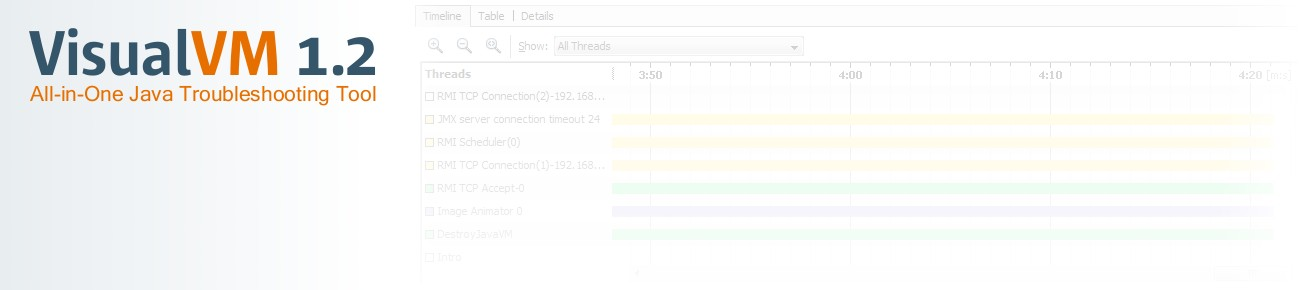
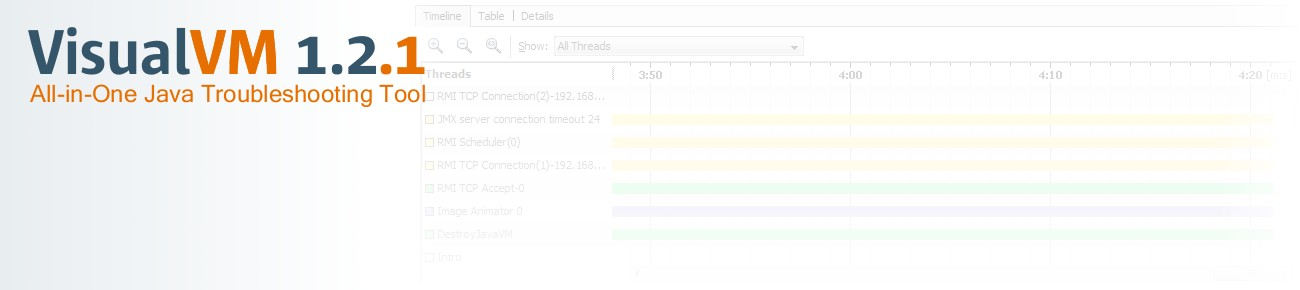
Releasing VisualVM 1.2.1
git-svn-id: https://svn.java.net/svn/visualvm~svn/trunk@2323 ba0df5e5-9053-6d9f-941f-f112716aa91a

Changed region(s): [[0.0, 0.0931, 0.3385, 0.3724]]

diff --git a/www/relnotes12.html b/www/relnotes12.html
@@ -1,7 +1,7 @@
 <html>
 <head>
     
-    <title>VisualVM 1.2.1 Release Notes</title>
+    <title>VisualVM 1.2 Release Notes</title>
     
     <style>            
             
@@ -42,14 +42,14 @@
     <div id="contents_contents">
         <div id="contents_main">
             
-            <h1>VisualVM 1.2.1 Release Notes</h1>
+            <h1>VisualVM 1.2 Release Notes</h1>
             
             <p>
                 VisualVM is a visual tool integrating several commandline JDK tools and lightweight profiling capabilities. Designed for both production and development time use, it further enhances the capability of monitoring and performance analysis for the Java SE platform.
             </p>
             
             <p style="margin-bottom: 15px;">
-                VisualVM 1.2.1 is a bugfix release based on VisualVM 1.2. See the <a href="#changes">Changes In 1.2.1</a> section for list of changes and bugfixes since the VisualVM 1.2.
+                VisualVM 1.2 is a stable release following after VisualVM 1.1.1. See the <a href="#changes">Changes In 1.2</a> section for list of changes and bugfixes since the VisualVM 1.1.1.
                 See the <a href="releases.html">Releases Overview</a> page for detailed overview of all VisualVM and Java VisualVM releases.
             </p>
             
@@ -98,60 +98,8 @@
             </div>
             
             <a name="changes"></a>
-            <h3>Changes In 1.2.1</h3>
-            <div>                
-                <p style="margin-top: 5px; margin-bottom: 10px;">
-                    <b>Fixed bugs:</b><br>
-                    <ul>
-                        <li><a href="https://visualvm.dev.java.net/issues/show_bug.cgi?id=333">Issue 333</a>: HeapWalker in VisualVM doesn't work with JDK 6 Update 17+
-                        </li>
-
-                        <li><a href="https://visualvm.dev.java.net/issues/show_bug.cgi?id=327">Issue 327</a>: Maximum value in Monitor charts is Integer.MAX_VALUE
-                        </li>
-
-                        <li><a href="https://visualvm.dev.java.net/issues/show_bug.cgi?id=332">Issue 332</a>: NPE in VisualVM-Sampler
-                        </li>
-                    </ul>
-                </p>
-            </div>
-            
-            <a name="known_problems"></a>
-            <h3>Known Problems</h3>
-            <div>                
-                <ul>
-                    <li><a href="https://visualvm.dev.java.net/issues/show_bug.cgi?id=224">Issue 224</a>: Cannot memory profile JBoss AS 4.2.3.GA
-                    </li>
-
-                    <li><a href="https://visualvm.dev.java.net/issues/show_bug.cgi?id=148">Issue 148</a>: VisualVM hangs when lost remote connection
-                    </li>
-
-                    <li><a href="https://visualvm.dev.java.net/issues/show_bug.cgi?id=120">Issue 120</a>: JMX application datasource cannot be reused on application restart
-                    </li>
-                    
-                    <li><a href="https://visualvm.dev.java.net/issues/show_bug.cgi?id=72">Issue 72</a>: Running application sometimes not recognized
-                    </li>
-                </ul>
-
-                <p>
-                    <b>Warning:</b> due to a JDK bug taking heap dump may crash the target JVM if it's running JDK 6 Update 16+ using Concurrent Mark Sweep garbage collector (CMS). A workaround is to use a different GC (for example using <code>-XX:+UseParallelGC</code>). Similar problem seems to affect also the JDK 7 devbuilds.
-                </p>
-                
-                <p style="margin-bottom: 15px;">To view all known problems please use this <a href="https://visualvm.dev.java.net/issues/buglist.cgi?Submit+query=Submit+query&issue_type=DEFECT&component=visualvm&subcomponent=code&issue_status=NEW&issue_status=STARTED&issue_status=REOPENED&email1=&emailtype1=exact&emailassigned_to1=1&email2=&emailtype2=exact&emailreporter2=1&issueidtype=include&issue_id=&changedin=&votes=&chfieldfrom=&chfieldto=Now&chfieldvalue=&short_desc=&short_desc_type=fulltext&long_desc=&long_desc_type=fulltext&issue_file_loc=&issue_file_loc_type=fulltext&status_whiteboard=&status_whiteboard_type=fulltext&field0-0-0=noop&type0-0-0=noop&value0-0-0=&cmdtype=doit&newqueryname=&order=Reuse+same+sort+as+last+time">IssueTracker query</a>.
-                </p>
-            </div>
-
-            <br>
-            <hr>
-            <hr>
-            <br>
-            <br>
-
-            <a name="changeshistory"></a>
-            <h2>History of Changes</h2>
-            <br>
-
             <h3>Changes In 1.2</h3>
-            <div>
+            <div>                
                 <p style="margin-top: 5px;">
                     <b>Features and enhancements:</b><br>
                     <ul>
@@ -256,14 +204,55 @@
 
                         <li>Compatible: <code>com.sun.tools.visualvm.tools.jvmstat.JvmstatModel.getConnectionId()</code> added
                         </li>
-
+                        
                     </ul>
                 </p>
-
+                
                 <p style="margin-bottom: 10px;">
                     <b>Fixed bugs:</b> <a href="https://visualvm.dev.java.net/issues/buglist.cgi?Submit+query=Submit+query&issue_type=DEFECT&component=visualvm&resolution=FIXED&target_milestone=1.2&email1=&emailtype1=exact&emailassigned_to1=1&email2=&emailtype2=exact&emailreporter2=1&issueidtype=include&issue_id=&changedin=&votes=&chfield=creation_ts&chfieldfrom=&chfieldto=Now&chfieldvalue=&short_desc=&short_desc_type=fulltext&long_desc=&long_desc_type=fulltext&issue_file_loc=&issue_file_loc_type=fulltext&status_whiteboard=&status_whiteboard_type=fulltext&field0-0-0=noop&type0-0-0=noop&value0-0-0=&cmdtype=doit&order=Reuse+same+sort+as+last+time">IssueTracker query</a>.
                 </p>
             </div>
+            
+            <a name="known_problems"></a>
+            <h3>Known Problems</h3>
+            <div>                
+                <ul>
+                    <li><a href="https://visualvm.dev.java.net/issues/show_bug.cgi?id=333">Issue 333</a>: HeapWalker in VisualVM doesn't work with JDK 6 Update 17+
+                    </li>
+
+                    <li><a href="https://visualvm.dev.java.net/issues/show_bug.cgi?id=224">Issue 224</a>: Cannot memory profile JBoss AS 4.2.3.GA
+                    </li>
+
+                    <li><a href="https://visualvm.dev.java.net/issues/show_bug.cgi?id=148">Issue 148</a>: VisualVM hangs when lost remote connection
+                    </li>
+
+                    <li><a href="https://visualvm.dev.java.net/issues/show_bug.cgi?id=327">Issue 327</a>: Maximum value in Monitor charts is Integer.MAX_VALUE (hotfix <a href="https://visualvm.dev.java.net/issues/show_bug.cgi?id=327">available</a>)
+                    </li>
+
+                    <li><a href="https://visualvm.dev.java.net/issues/show_bug.cgi?id=120">Issue 120</a>: JMX application datasource cannot be reused on application restart
+                    </li>
+                    
+                    <li><a href="https://visualvm.dev.java.net/issues/show_bug.cgi?id=72">Issue 72</a>: Running application sometimes not recognized
+                    </li>
+                </ul>
+
+                <p>
+                    <b>Warning:</b> due to a JDK bug taking heap dump may crash the target JVM if it's running JDK 6 Update 16+ using Concurrent Mark Sweep garbage collector (CMS). A workaround is to use a different GC (for example using <code>-XX:+UseParallelGC</code>). Similar problem seems to affect also the JDK 7 devbuilds.
+                </p>
+                
+                <p style="margin-bottom: 15px;">To view all known problems please use this <a href="https://visualvm.dev.java.net/issues/buglist.cgi?Submit+query=Submit+query&issue_type=DEFECT&component=visualvm&subcomponent=code&issue_status=NEW&issue_status=STARTED&issue_status=REOPENED&email1=&emailtype1=exact&emailassigned_to1=1&email2=&emailtype2=exact&emailreporter2=1&issueidtype=include&issue_id=&changedin=&votes=&chfieldfrom=&chfieldto=Now&chfieldvalue=&short_desc=&short_desc_type=fulltext&long_desc=&long_desc_type=fulltext&issue_file_loc=&issue_file_loc_type=fulltext&status_whiteboard=&status_whiteboard_type=fulltext&field0-0-0=noop&type0-0-0=noop&value0-0-0=&cmdtype=doit&newqueryname=&order=Reuse+same+sort+as+last+time">IssueTracker query</a>.
+                </p>
+            </div>
+
+            <br>
+            <hr>
+            <hr>
+            <br>
+            <br>
+
+            <a name="changeshistory"></a>
+            <h2>History of Changes</h2>
+            <br>
 
             <h3>Changes In 1.1.1</h3>
             <div>
@@ -394,7 +383,7 @@
         <h3 class="first">On This Page</h3>
         <div>
             <a href="#system_requirements">System Requirements</a>
-            <a href="#changes">Changes In 1.2.1</a>
+            <a href="#changes">Changes In 1.2</a>
             <a href="#known_problems">Known Problems</a>
             <a href="#changeshistory">History of Changes</a>
         </div>

diff --git a/www/index.html b/www/index.html
@@ -50,6 +50,11 @@
             <div id="news" style="margin-bottom: 10px;">
                 <!-- Please always display 3 items here. The item to be removed should be archived on news.html -->
 
+                <p><span class="news_date">November 9th, 2009:</span> VisualVM 1.2.1 released. This is purely a bugfix release, see the <a href="https://visualvm.dev.java.net/issues/buglist.cgi?Submit+query=Submit+query&component=visualvm&resolution=FIXED&target_milestone=1.2.1&email1=&emailtype1=exact&emailassigned_to1=1&email2=&emailtype2=exact&emailreporter2=1&issueidtype=include&issue_id=&changedin=&votes=&chfield=creation_ts&chfieldfrom=&chfieldto=Now&chfieldvalue=&short_desc=&short_desc_type=fulltext&long_desc=&long_desc_type=fulltext&issue_file_loc=&issue_file_loc_type=fulltext&status_whiteboard=&status_whiteboard_type=fulltext&field0-0-0=noop&type0-0-0=noop&value0-0-0=&cmdtype=doit&order=Reuse+same+sort+as+last+time">list of fixed bugs</a>.
+                    The tool can be downloaded from the <a href="download.html">Download</a> page, sources are available in
+                    <a href="https://visualvm.dev.java.net/source/browse/visualvm/visualvm/?only_with_tag=release121"><code>release121</code></a> branch.
+                </p>
+
                 <p><span class="news_date">October 21st, 2009:</span> VisualVM 1.2 released. It introduces many new features
                     incl. sampling profiler, redesigned charts, enhanced <code>jstatd</code> support and customizable proxy settings.
                     The tool can be downloaded from the <a href="download.html">Download</a> page, sources are available in
@@ -64,11 +69,6 @@
                     <a href="mailto:feedback@visualvm.dev.java.net?subject=VisualVM 1.2 Test Build Feedback">feedback@visualvm.dev.java.net</a>
                     or <a href="https://visualvm.dev.java.net/issues/enter_bug.cgi?issue_type=DEFECT">file a bug report</a> into
                     the Issue Tracker (dev.java.net login is required).
-                </p>
-
-                <p><span class="news_date">August 13th, 2009:</span> Java VisualVM Blogging Contest results have been
-                    announced at <a href="http://java.sun.com/community/javavisualvm">http://java.sun.com/community/javavisualvm</a>.
-                    Congratulations to the winners and thanks to all participants!
                 </p>
 
                 <p class="previous_link"><a href="news.html">news archive</a>

diff --git a/www/build/build12.html b/www/build/build12.html
@@ -1,23 +1,15 @@
 <html>
 <head>
-<title>Build guide for VisualVM 1.2.1</title>
+<title>Build guide for VisualVM 1.2</title>
 <meta http-equiv="Content-Type" content="text/html; charset=iso-8859-1">
 </head>
 <body>
 <p>
-Build instructions for latest stable version <b>VisualVM 1.2.1</b>. If you want to build different version use links below:
-<ul>
-    <li><a href="build/build.html">trunk</a></li>
-    <li><a href="build/build12.html">VisualVM 1.2</a></li>
-    <li><a href="build/build111.html">VisualVM 1.1.1</a></li>
-    <li><a href="build/build11.html">VisualVM 1.1</a></li>
-    <li><a href="build/build101.html">VisualVM 1.0.1</a></li>
-    <li><a href="build/build10.html">VisualVM 1.0</a></li>
-</ul>
+Build instructions for <b>VisualVM 1.2</b>.
 Check out source code with a CVS client using the following command. Note: replace <code>username</code> with your own username.<br>
 <code>cvs -d :pserver:username@cvs.dev.java.net:/cvs login</code><br>
 followed by<br>
-<code> cvs -d :pserver:username@cvs.dev.java.net:/cvs checkout -r release121 -P visualvm</code><br>
+<code> cvs -d :pserver:username@cvs.dev.java.net:/cvs checkout -r release12 -P visualvm</code><br>
 </p>
 
 <p>There are two suites:</p>
@@ -26,7 +18,7 @@ followed by<br>
 <li><b>plugins</b>: which contains the plugins available in the VisualVM Plugin Center.</li>
 </ul>
 
-<p>The layout in <a href="https://visualvm.dev.java.net/source/browse/visualvm/?only_with_tag=release121">CVS</a> for VisualVM 1.2.1 release is:</p>
+<p>The layout in <a href="https://visualvm.dev.java.net/source/browse/visualvm/?only_with_tag=release12">CVS</a> for VisualVM 1.2 release is:</p>
 <ul>
     <li>visualvm
         <ul>
@@ -38,7 +30,7 @@ followed by<br>
 </ul>
 <p>
 To build the visualvm core tool you need the NetBeans 6.7.1 platform and profiler binaries available
-<a href="https://visualvm.dev.java.net/files/documents/7163/145163/nb671_visualvm_09112009.zip">here</a>.
+<a href="https://visualvm.dev.java.net/files/documents/7163/144394/nb671_visualvm_20102009.zip">here</a>.
 These binaries must be extracted into the visualvm/visualvm directory. You can use <code>ant run</code>
 or <code>ant build-zip</code> to build or run VisualVM.
 </p>

diff --git a/www/download.html b/www/download.html
@@ -54,8 +54,8 @@
             <a name="download"></a>
             <h3>Download</h3>
             <div style="background: #f0f1f2; padding: 10px; padding-left: 20px; margin-bottom: 10px;">
-                <div><a href="https://visualvm.dev.java.net/files/documents/7163/144406/visualvm_12.zip"><span style="font-size: 14px; font-weight: bold;">VisualVM 1.2</span></a> (.zip, 9.9MB)<span style="margin-left: 15px; margin-right: 15px;">|</span>IDE integration: <a href="eclipse-launcher.html">Eclipse IDE</a>, <a href="http://plugins.intellij.net/plugin/?id=3749">IntelliJ IDEA</a> <small>(3<sup>rd</sup> party)</small></div>
-                <div style="padding-top: 5px;"><small><a href="https://visualvm.dev.java.net/files/documents/7163/144407/visualvm_12-ml.zip"><b>Multi-language</b></a> (.zip, 11.6MB, English / Japanese <img src="ja/images/japanese.png" style="border: 0px; vertical-align: bottom;"/> / Chinese <img src="zh_CN/images/simplified_chinese.png" style="border: 0px; vertical-align: bottom;"/>)</small></div>
+                <div><a href="https://visualvm.dev.java.net/files/documents/7163/144406/visualvm_121.zip"><span style="font-size: 14px; font-weight: bold;">VisualVM 1.2.1</span></a> (.zip, 9.9MB)<span style="margin-left: 15px; margin-right: 15px;">|</span>IDE integration: <a href="eclipse-launcher.html">Eclipse IDE</a>, <a href="http://plugins.intellij.net/plugin/?id=3749">IntelliJ IDEA</a> <small>(3<sup>rd</sup> party)</small></div>
+                <div style="padding-top: 5px;"><small><a href="https://visualvm.dev.java.net/files/documents/7163/144407/visualvm_121-ml.zip"><b>Multi-language</b></a> (.zip, 11.6MB, English / Japanese <img src="ja/images/japanese.png" style="border: 0px; vertical-align: bottom;"/> / Chinese <img src="zh_CN/images/simplified_chinese.png" style="border: 0px; vertical-align: bottom;"/>)</small></div>
             </div>
             
             <a style="clear: both;" name="first_steps"></a>

diff --git a/www/releases.html b/www/releases.html
@@ -79,11 +79,21 @@
                         <tr><th><b>VisualVM</b></th><th><b>Corresponding Java&nbsp;VisualVM<br></b></th></tr>
                         <tr>
                             <td>
-                                <div><b>VisualVM 1.2</b><br><small style="margin-left: 10px;">Released: October 21st, 2009, <a href="relnotes.html">Release Notes</a></small></div>
+                                <div><b>VisualVM 1.2.1</b><br><small style="margin-left: 10px;">Released: November 9th, 2009, <a href="relnotes.html">Release Notes</a></small></div>
                             </td>
 
                             <td>
                                 <div>not released yet</div>
+                            </td>
+                        </tr>
+
+                        <tr>
+                            <td>
+                                <div><b>VisualVM 1.2</b><br><small style="margin-left: 10px;">Released: October 21st, 2009, <a href="relnotes12.html">Release Notes</a></small></div>
+                            </td>
+
+                            <td>
+                                <div>not released</div>
                             </td>
                         </tr>
 

diff --git a/www/news.html b/www/news.html
@@ -72,6 +72,11 @@
             <h3>News</h3>
             <div id="news">
 
+                <p><span class="news_date">August 13th, 2009:</span> Java VisualVM Blogging Contest results have been
+                    announced at <a href="http://java.sun.com/community/javavisualvm">http://java.sun.com/community/javavisualvm</a>.
+                    Congratulations to the winners and thanks to all participants!
+                </p>
+
                 <p><span class="news_date">June 23rd, 2009:</span> The Buffer Monitor plugin
                     has been released on VisualVM 1.1.1 Plugin Center. The plugin enables
                     monitoring usage of direct buffers created by <code>ByteBuffer.allocateDirect</code>

diff --git a/www/troubleshooting.html b/www/troubleshooting.html
@@ -46,7 +46,7 @@
     <div id="contents_contents">
         <div id="contents_main">
             
-            <h1>VisualVM 1.2 Troubleshooting Guide</h1>
+            <h1>VisualVM 1.2.1 Troubleshooting Guide</h1>
             
             <p style="margin-bottom: 15px;">
                 This document describes the most common problems related to using VisualVM and information on how to fix or workaround the problems.
